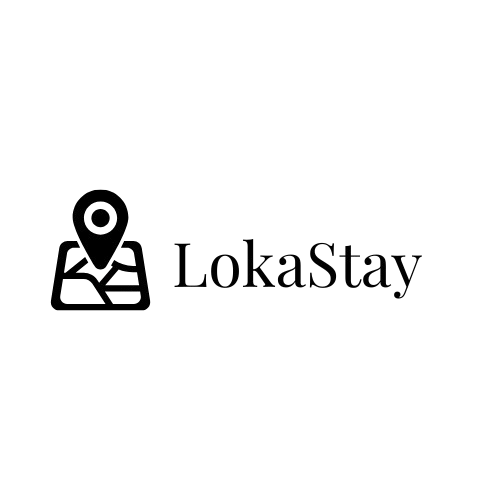
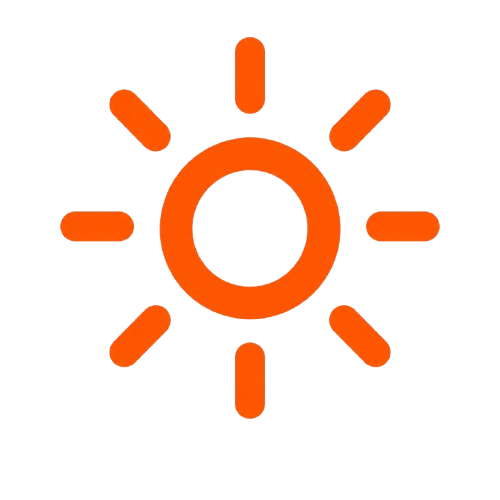
style: fixed issue center in footer root page

diff --git a/app/layout.tsx b/app/layout.tsx
@@ -1,23 +1,31 @@
 import type { Metadata } from "next";
 import { Geist, Geist_Mono } from "next/font/google";
+import { Poppins } from "next/font/google";
+
 import "./globals.css";
 import Header from "./_components/Header";
 
-const geistSans = Geist({
-  variable: "--font-geist-sans",
-  subsets: ["latin"],
-});
+// const geistSans = Geist({
+//   variable: "--font-geist-sans",
+//   subsets: ["latin"],
+// });
 
-const geistMono = Geist_Mono({
-  variable: "--font-geist-mono",
+// const geistMono = Geist_Mono({
+//   variable: "--font-geist-mono",
+//   subsets: ["latin"],
+// });
+
+const poppins = Poppins({
   subsets: ["latin"],
+  weight: ["300", "400", "500", "600", "700"],
+  variable: "--font-sans",
 });
 
 export const metadata: Metadata = {
   // title: "Create Next App",
   title: {
-    template: "%s Loka Stay",
-    default: "Welcome / Loka Stay",
+    template: "%s Nginapin",
+    default: "Welcome / Nginapin",
   },
 
   description: "Find the best hotels, villas, and resorts across Indonesia.",
@@ -30,9 +38,10 @@ export default function RootLayout({
 }>) {
   return (
     <html lang="en">
-      <body
+      <body className={`${poppins.className} antialiased w-full`}>
+        {/* <body
         className={`${geistSans.variable} ${geistMono.variable} antialiased w-full `}
-      >
+      > */}
         <Header />
         <main className="pt-4">{children}</main>
       </body>

diff --git a/app/_components/NavigationProfile.tsx b/app/_components/NavigationProfile.tsx
@@ -1,0 +1,28 @@
+"use client";
+
+import { FiHome, FiCalendar, FiUser, FiLogOut } from "react-icons/fi";
+import { signOut } from "next-auth/react";
+
+export default function NavigationProfile() {
+  return (
+    <nav className="flex flex-col justify-between  border-r h-full">
+      <ul className="grid gap-10">
+        <li className="flex flex-row items-center">
+          <FiHome size={20} className="mr-2" />
+          Home
+        </li>
+        <li className="flex flex-row items-center">
+          <FiCalendar size={20} className="mr-2" />
+          Reservation
+        </li>
+      </ul>
+      <div
+        onClick={() => signOut({ redirectTo: "/" })}
+        className="flex flex-row items-center cursor-pointer"
+      >
+        <FiLogOut size={20} className="mr-2" />
+        Sign Out
+      </div>
+    </nav>
+  );
+}

diff --git a/components/ui/button.tsx b/components/ui/button.tsx
@@ -1,8 +1,8 @@
-import * as React from "react"
-import { cva, type VariantProps } from "class-variance-authority"
-import { Slot } from "radix-ui"
+import * as React from "react";
+import { cva, type VariantProps } from "class-variance-authority";
+import { Slot } from "radix-ui";
 
-import { cn } from "@/lib/utils"
+import { cn } from "@/lib/utils";
 
 const buttonVariants = cva(
   "group/button inline-flex shrink-0 items-center justify-center rounded-lg border border-transparent bg-clip-padding text-sm font-medium whitespace-nowrap transition-all outline-none select-none focus-visible:border-ring focus-visible:ring-3 focus-visible:ring-ring/50 active:not-aria-[haspopup]:translate-y-px disabled:pointer-events-none disabled:opacity-50 aria-invalid:border-destructive aria-invalid:ring-3 aria-invalid:ring-destructive/20 dark:aria-invalid:border-destructive/50 dark:aria-invalid:ring-destructive/40 [&_svg]:pointer-events-none [&_svg]:shrink-0 [&_svg:not([class*='size-'])]:size-4",
@@ -38,8 +38,8 @@ const buttonVariants = cva(
       variant: "default",
       size: "default",
     },
-  }
-)
+  },
+);
 
 function Button({
   className,
@@ -49,9 +49,9 @@ function Button({
   ...props
 }: React.ComponentProps<"button"> &
   VariantProps<typeof buttonVariants> & {
-    asChild?: boolean
+    asChild?: boolean;
   }) {
-  const Comp = asChild ? Slot.Root : "button"
+  const Comp = asChild ? Slot.Root : "button";
 
   return (
     <Comp
@@ -61,7 +61,7 @@ function Button({
       className={cn(buttonVariants({ variant, size, className }))}
       {...props}
     />
-  )
+  );
 }
 
-export { Button, buttonVariants }
+export { Button, buttonVariants };

diff --git a/app/account/page.tsx b/app/account/page.tsx
@@ -1,6 +1,5 @@
-import { signOut } from "next-auth/react";
 import { auth } from "../_lib/auth";
-import SignOutButton from "../_components/SignOutButton";
+import NavigationProfile from "../_components/NavigationProfile";
 
 export const metadata = {
   title: "Guest area",
@@ -11,12 +10,13 @@ export default async function Page() {
   console.log("Guest area session:", session);
   const firstName = session?.user?.name?.split(" ")[0] || "Guest";
   return (
-    <div>
-      <h2 className="font-semibold text-2xl text-accent-400 mb-7">
-        Welcome, {firstName}!
-      </h2>
-
-      <SignOutButton />
-    </div>
+    <main className="min-h-180 w-full mt-10 px-4 py-4">
+      <section className="w-full max-w-[1750px] mx-auto grid grid-cols-[350px_1fr] gap-10 h-180">
+        <NavigationProfile />
+        <h2 className="font-semibold text-2xl text-accent-400 mb-7">
+          Welcome, {firstName}!
+        </h2>
+      </section>
+    </main>
   );
 }

diff --git a/app/_components/FooterBooking.tsx b/app/_components/FooterBooking.tsx
@@ -1,0 +1,17 @@
+export default function FooterBooking() {
+  return (
+    <footer className="absolute bottom-0 w-full col-span-full flex flex-col px-12 sm:flex-row items-center justify-between sm:px-20 py-5 text-[10px] tracking-widest uppercase text-[#9b8b7a] gap-3">
+      <span>© 2024 Nginapin. Cozy place to stay.</span>
+      <div className="flex gap-8">
+        {["Privacy", "Terms", "Contact"].map((item) => (
+          <div
+            key={item}
+            className="hover:text-[#8b5e3c] transition-colors duration-200"
+          >
+            {item.toLowerCase()}
+          </div>
+        ))}
+      </div>
+    </footer>
+  );
+}

diff --git a/app/_components/Footer.tsx b/app/_components/Footer.tsx
@@ -8,7 +8,7 @@ export default function Footer() {
   return (
     <footer className="min-h-fit w-full md:max-w-[1500px] lg:max-w-[1800px] mx-auto mt-30 mb-8">
       <h2 className=" text-center text-3xl md:text-[9rem] font-black leading-none tracking-tighter uppercase">
-        LOKASTAY- CONTACT
+        NGINAPIN- CONTACT
       </h2>
       <div className="flex flex-col items-center mt-8">
         <div className="flex gap-8 text-lg sm:gap-20 items-center flex-row font-semibold">
@@ -27,10 +27,12 @@ export default function Footer() {
           stays that go beyond just a room, providing a comforting journey
           toward relaxation and unforgettable experiences
         </p>
-        <div className="flex flex-col sm:flex-row w-full items-center justify-between gap-4 mt-8 text-xs sm:text-md">
-          <a href="#">Helpline: [phone redacted]</a>
+        <div className="grid grid-cols-3 w-full items-center mt-8 text-xs sm:text-sm">
+          <a href="#" className="justify-self-start">
+            Helpline: [phone redacted]
+          </a>
 
-          <nav aria-label="Social media">
+          <nav aria-label="Social media" className="justify-self-center">
             <ul className="flex gap-6">
               <li>
                 <a
@@ -75,7 +77,9 @@ export default function Footer() {
             </ul>
           </nav>
 
-          <p>© {new Date().getFullYear()} Lokastay. All rights reserved.</p>
+          <p className="justify-self-end">
+            © {new Date().getFullYear()} Lokastay. All rights reserved.
+          </p>
         </div>
       </div>
     </footer>

diff --git a/app/bookings/page.tsx b/app/bookings/page.tsx
@@ -11,10 +11,11 @@ import Spinner from "../_components/Spinner";
 import { getFilteredProperties } from "../_lib/data-services";
 import { dataTypeProperties } from "../_lib/dataTypeProperties";
 import NavCabins2 from "../_components/NavCabins2";
-import MyPagination from "@/components/paginationBooking";
+import PaginationBookingPage from "@/app/_components/paginationBooking";
+import FooterBooking from "../_components/FooterBooking";
 
 export const metadata = {
-  title: "cabins",
+  title: "Bookings",
 };
 
 const ratingOptions = ["All", "1", "2", "3", "4", "5"];
@@ -51,7 +52,7 @@ export default async function Bookings({
     currentPage * perPage,
   );
   return (
-    <main className="min-h-screen w-full">
+    <main className="min-h-screen w-full relative">
       <section className="w-full max-w-6xl mx-auto mt-4 sm:mt-12 px-2 sm:px-6 relative h-24 sm:h-20">
         <div className="flex items-center w-full h-full bg-white border-gray-200 rounded-2xl shadow-sm divide-gray-200">
           {/* {dataTypeProperties.map((item, index) => (
@@ -164,11 +165,13 @@ export default async function Bookings({
           </Suspense>
         </div>
       </section>
-      <MyPagination
+      <PaginationBookingPage
         currentPage={currentPage}
         totalPages={totalPages}
         searchParams={{ location, type, price }}
-      />{" "}
+      />
+      <div className="mt-10 h-20 sm:h-10"></div>
+      <FooterBooking />
     </main>
   );
 }

diff --git a/app/_components/Room.tsx b/app/_components/Room.tsx
@@ -53,11 +53,11 @@ export default function DetailRoom({ room }: { room: Room }) {
   }
 
   return (
-    <div className="min-h-screen w-full mt-40 overflow-x-hidden">
+    <div className="min-h-screen h-full w-full mt-0 overflow-x-hidden">
       {/* ================= MOBILE (EMBLA) ================= */}
       <ImageCarouselRoomDetail images={images} />
 
-      <section className="hidden w-full max-w-[1320px] mx-auto px-6 relative h-[60vh] md:grid grid-cols-2 gap-2 overflow-hidden">
+      <section className="hidden w-full lg:max-w-[1750px] mx-auto px-2 relative h-[60vh] md:grid grid-cols-2 gap-2 overflow-hidden">
         <div className="relative">
           <Image
             src={mainImage ?? ""}
@@ -97,8 +97,8 @@ export default function DetailRoom({ room }: { room: Room }) {
       </section>
 
       <section
-        className="w-full max-w-[1320px] bg-white border-white rounde
-      d-t-2xl mx-auto mt-6 px-6 grid grid-cols-1 md:grid-cols-[1.2fr_0.8fr] gap-6"
+        className="w-full lg:max-w-[1750px] bg-white border-white rounde
+      d-t-2xl mx-auto mt-6 px-2 grid grid-cols-1 md:grid-cols-[1.2fr_0.8fr] gap-6"
       >
         <header className="flex gap-2 flex-col">
           <h1 className="text-4xl font-semibold">{title}</h1>

diff --git a/app/_components/Header.tsx b/app/_components/Header.tsx
@@ -9,15 +9,15 @@ import { auth } from "../_lib/auth";
 async function Header() {
   const session = await auth();
   return (
-    <header className="flex px-4 py-5 justify-between items-center mx-auto w-full lg:max-w-[1750px] h-16 sticky top-0 z-50 bg-white shadow-sm rounded-none sm:rounded-full">
+    <header className="flex px-4 py-5 justify-between items-center mx-auto w-full lg:max-w-[1750px] h-16 sticky top-0 z-50 bg-white shadow-sm rounded-none sm:rounded-t-none sm:rounded-b-lg">
       {/* Logo */}
-      <div className="shrink-0 px-2">
+      <div className="shrink-0 ">
         <Link href="/">
           <Image
             src={Logo}
             alt="Logo"
             quality={100}
-            className="w-28 h-auto object-contain block"
+            className="w-34 h-auto object-contain block"
           />
         </Link>
       </div>

diff --git a/lib/utils.ts b/lib/utils.ts
@@ -1,6 +1,6 @@
-import { clsx, type ClassValue } from "clsx"
-import { twMerge } from "tailwind-merge"
+import { clsx, type ClassValue } from "clsx";
+import { twMerge } from "tailwind-merge";
 
 export function cn(...inputs: ClassValue[]) {
-  return twMerge(clsx(inputs))
+  return twMerge(clsx(inputs));
 }

diff --git a/app/login/page.tsx b/app/login/page.tsx
@@ -45,7 +45,7 @@ export default function LoginPage() {
 
           {/* Register link */}
           <p className="mt-6 text-sm text-[#9b8b7a] animate-fade-up [animation-delay:300ms]">
-            New to LokaStay?{" "}
+            New to Nginapin?
             <Link
               href="/register"
               className="text-[#8b5e3c] font-medium border-b border-transparent hover:border-[#8b5e3c] transition-all duration-200"
@@ -70,7 +70,7 @@ export default function LoginPage() {
 
         {/* ── FOOTER ── */}
         <footer className="col-span-full flex flex-col sm:flex-row items-center justify-between px-12 py-5 text-[10px] tracking-widest uppercase text-[#9b8b7a] gap-3">
-          <span>© 2024 LokaStay. Digital Concierge Experience.</span>
+          <span>© 2026 Nginapin. Digital Concierge Experience.</span>
           <div className="flex gap-8">
             {["Privacy", "Terms", "Contact"].map((item) => (
               <Link

diff --git a/app/_components/HumbergerMenu.tsx b/app/_components/HumbergerMenu.tsx
@@ -71,7 +71,7 @@ export default function HamburgerMenu({
               src={Logo}
               alt="Logo"
               quality={100}
-              className="w-24 h-auto object-contain"
+              className="w-34 h-auto object-contain"
             />
           </Link>
           <button